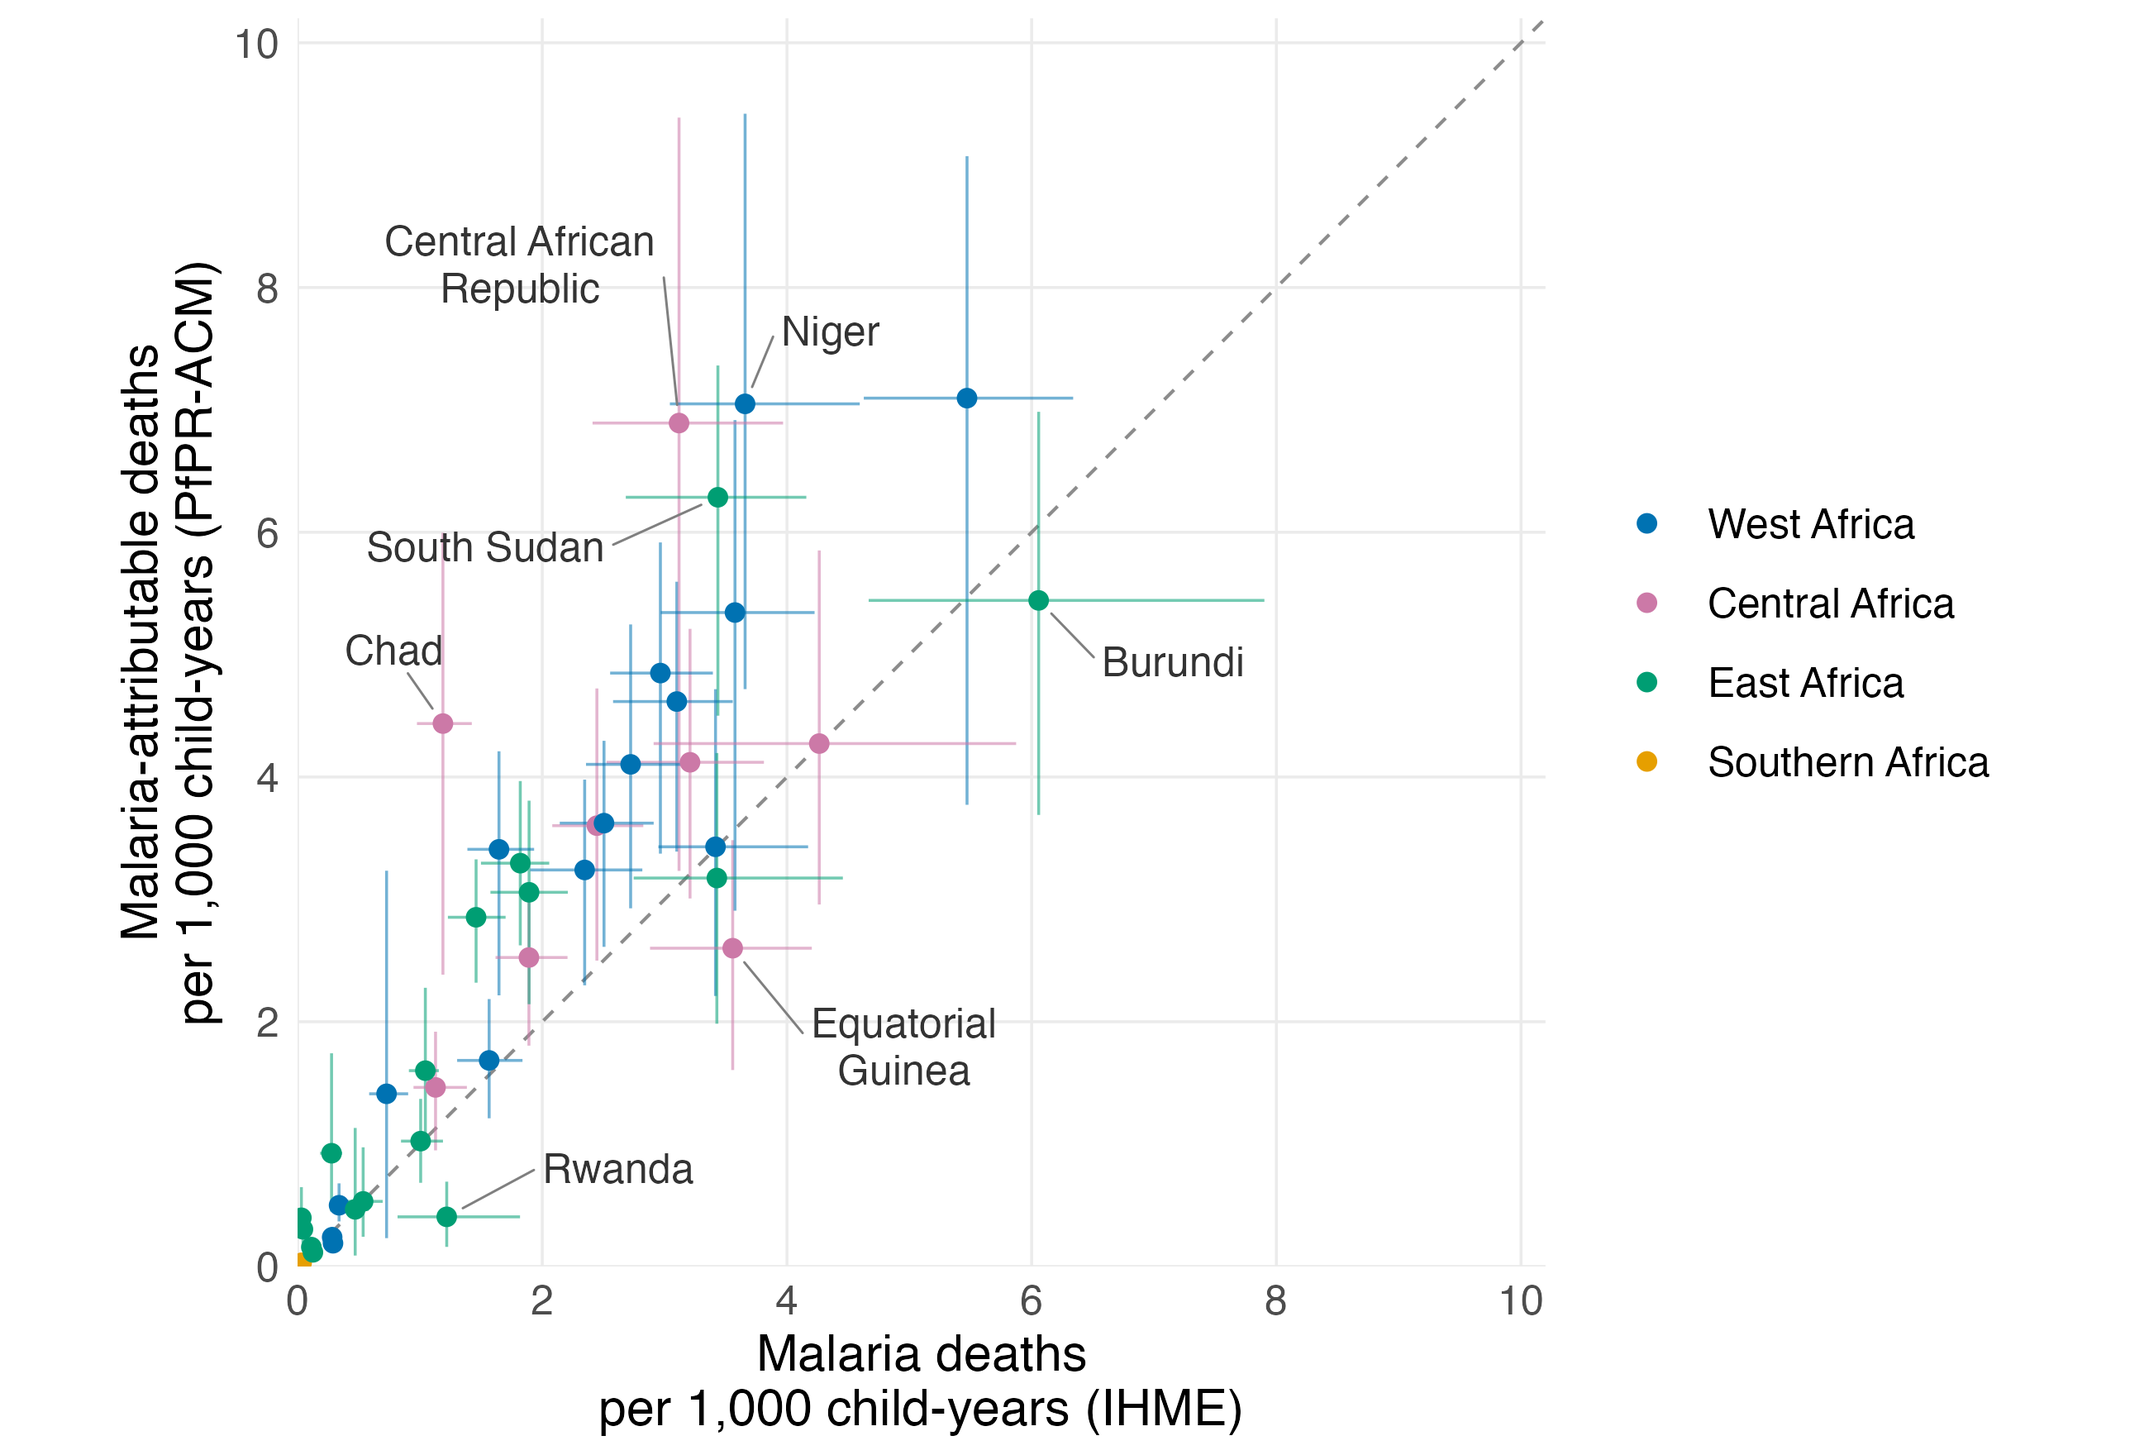
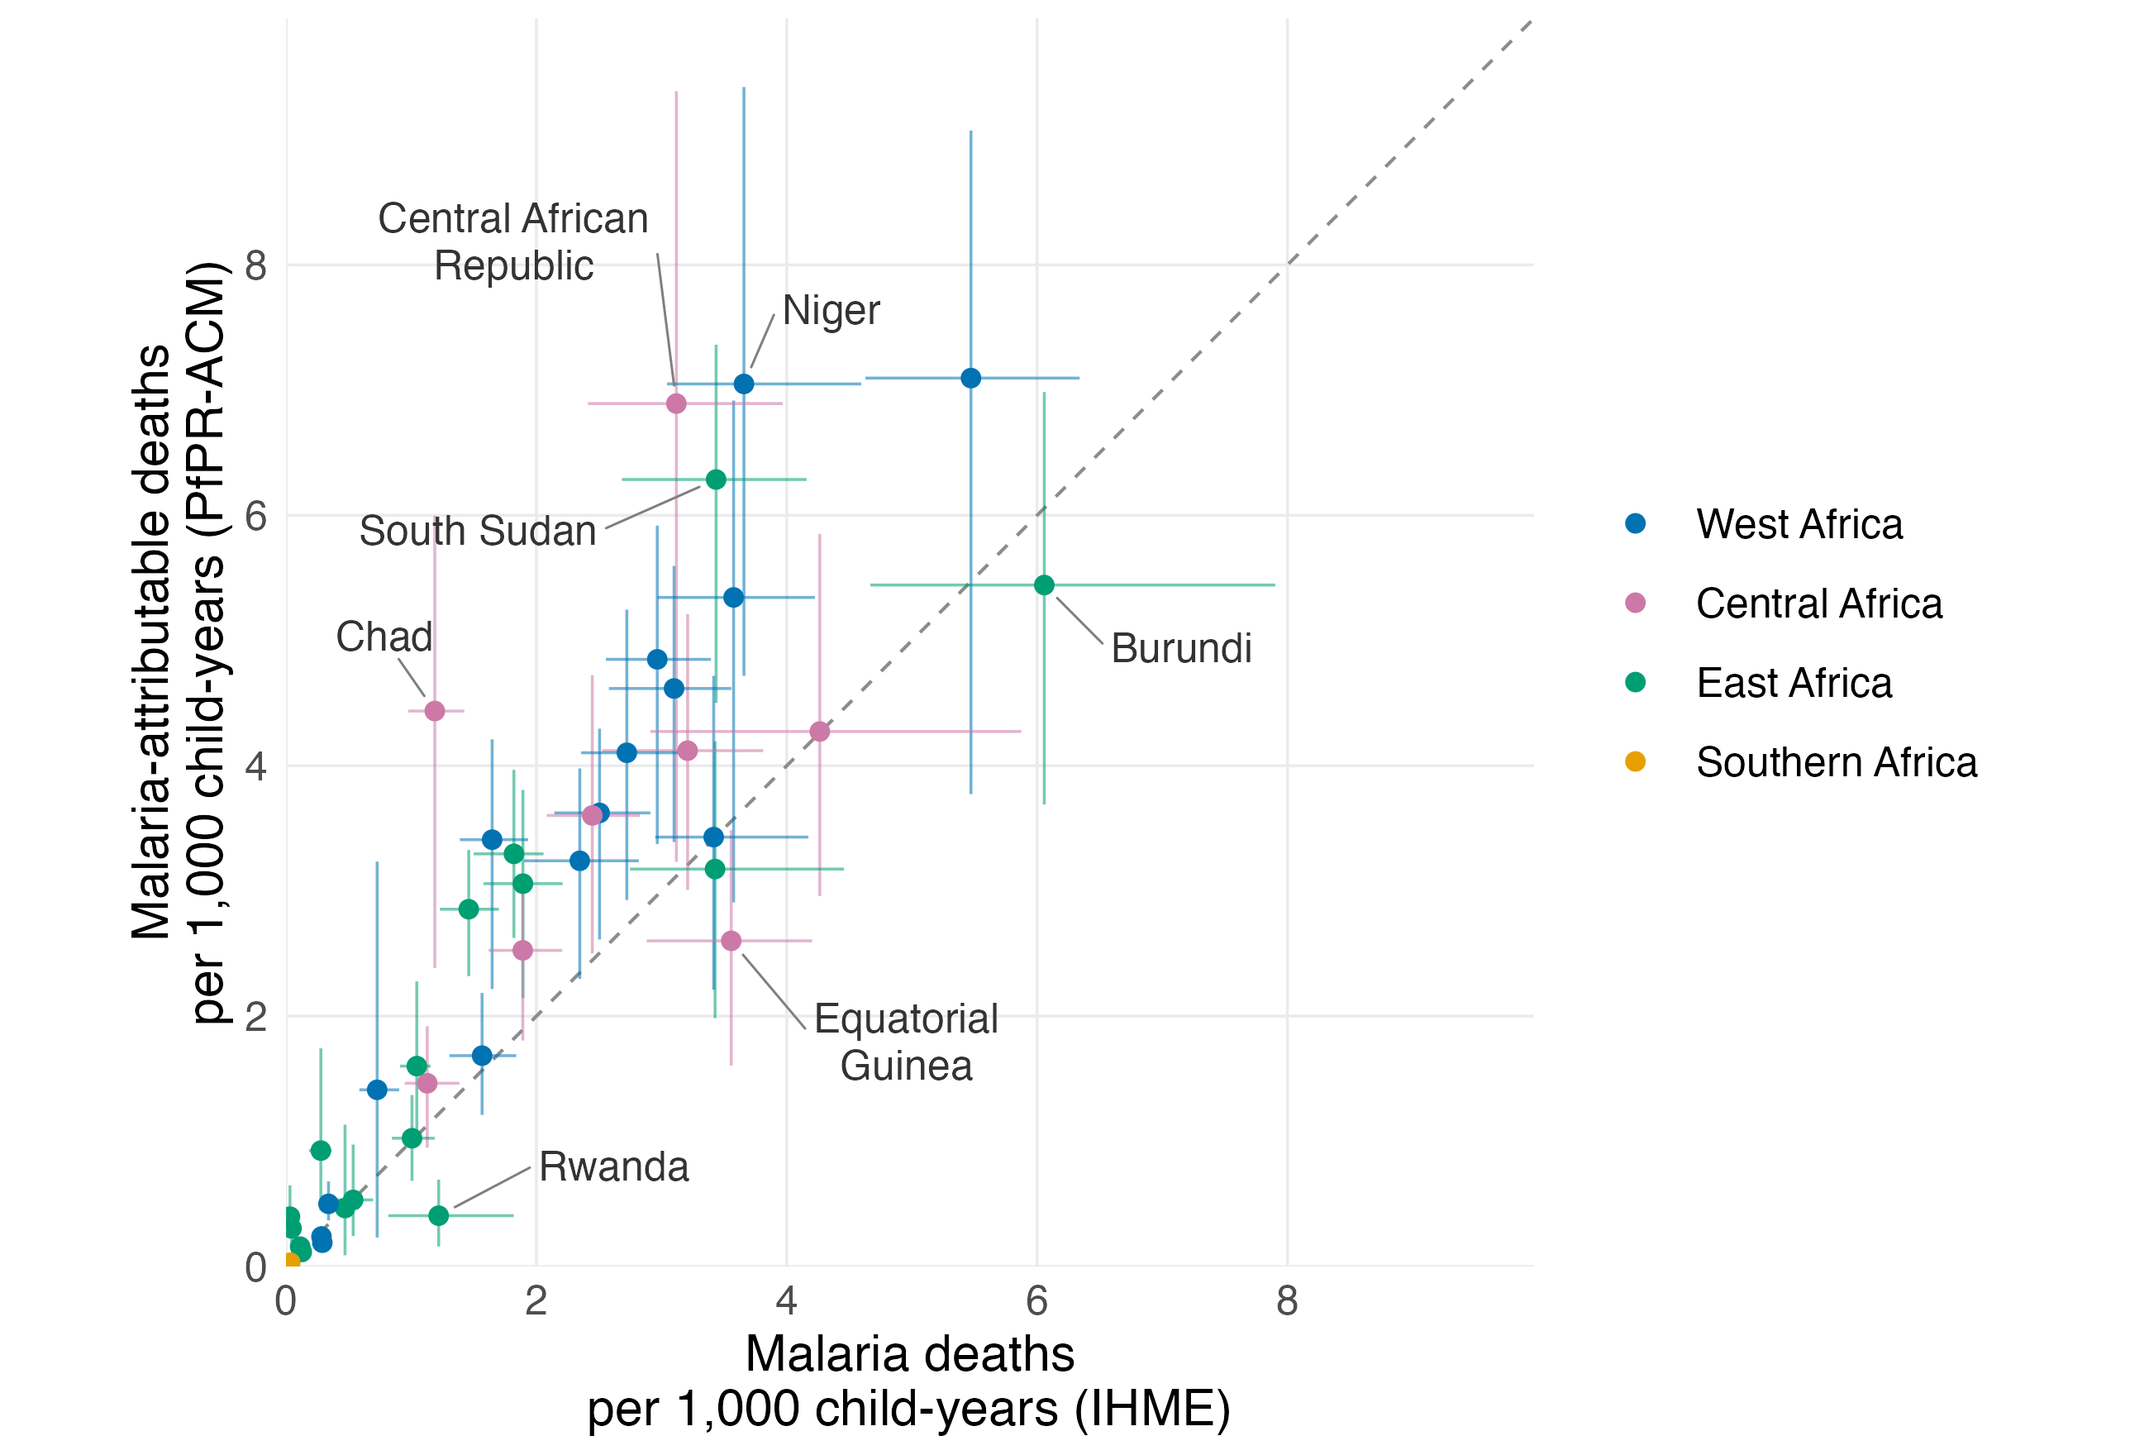
Figure 5: single under-five panel against UN IGME malaria deaths
Replaces the three age-group panels, which compared each age group with UN
IGME's under-five total (not like for like): UN IGME (CA-CODE) publishes
malaria deaths for 1-59 months as a whole, so an age-specific comparison is
not possible with it (author decision, 18 November 2026). The IHME
supplementary figure uses the same axes. The age-group intervals of the
uncertainty draws stay as a number source for the text.

diff --git a/R_cbh/reporting/export_paper.py b/R_cbh/reporting/export_paper.py
@@ -93,7 +93,7 @@ assets.extend([
     (root / "mortality_rates/CAPTION_unigme.md", Path("figures/fig4_malaria_mortality_rates_unigme_caption.md")),
     (root / "hazard_ratio_by_age/CAPTION.md", Path("figures/fig2_hazard_ratio_by_age_caption.md")),
     (root / "model_vs_cause_specific/CAPTION.md", Path("figures/fig5_model_vs_cause_specific_2024_caption.md")),
-    # Figure 5 is UN IGME only, by age group; its IHME panel is a supplementary figure (author request, 18 November 2026).
+    # Figure 5 is UN IGME only; its IHME panel is a supplementary figure (author request, 18 November 2026).
     (root / "model_vs_cause_specific/sfig_model_vs_cause_specific_ihme_2024.png", Path("Supplementary Figures/sfig_model_vs_cause_specific_ihme_2024.png")),
     (root / "model_vs_cause_specific/CAPTION_ihme.md", Path("Supplementary Figures/sfig_model_vs_cause_specific_ihme_2024_caption.md")),
     (root / "mortality_rates/sfig_malaria_mortality_rates_ihme.png", Path("Supplementary Figures/sfig_malaria_mortality_rates_ihme.png")),
@@ -110,7 +110,7 @@ assets.extend([
     (root / "uncertainty/annual_intervals_2000_2024.csv", Path("tables/uncertainty_annual_intervals_2000_2024.csv")),
     (root / "uncertainty/country_year_intervals_2000_2024.csv", Path("tables/uncertainty_country_year_intervals_2000_2024.csv")),
     (root / "uncertainty/contrasts.csv", Path("tables/uncertainty_contrasts.csv")),
-    # Attributable deaths by UN IGME age group, with intervals (number source of Figure 5; 18 November 2026).
+    # Attributable deaths by UN IGME age group, with intervals (18 November 2026).
     (root / "uncertainty/annual_age_group_intervals_2000_2024.csv", Path("tables/uncertainty_annual_age_group_intervals_2000_2024.csv")),
     (root / "uncertainty/SPEC.md", Path("tables/uncertainty_specification.md")),
 ])

diff --git a/paper/figures/primary_figure_captions.md b/paper/figures/primary_figure_captions.md
@@ -28,10 +28,10 @@ File: `fig4_malaria_mortality_rates_unigme.png` (source `mortality_rates/fig_mal
 
 **Figure. Malaria prevalence and under-five mortality in 42 sub-Saharan African countries, 2000–2024, with all-cause mortality from UN IGME.** (A) National PfPR[2–10]: the Malaria Atlas Project's national estimates (release 202608). (B) All-cause under-five deaths per 1,000 child-years, with crisis years replaced (below). (C) Malaria-attributable under-five deaths per 1,000 child-years: for each of the seven age bands of the PfPR-ACM model, the band's attributable fraction 1 − exp[f_g(0) − f_g(P)] at the national PfPR[2–10] times the band's all-cause deaths, summed over bands and divided by the same child-years. All-cause deaths are UN IGME estimates (UNICEF data warehouse, indicators CME_TMM0, CME_TMM1T11 and CME_TMY1T4) and child-years the UN WPP population under 5 (DM_POP_U5), the population UN IGME itself uses. UN IGME reports deaths at <1 month, 1–11 months and 1–4 years; each group is split across the model's age bands by the primary sample's observed deaths within the group, pooled over countries and years (1–5 months 52.3%, 6–11 months 47.7%, 12–23 months 37.9%, 24–35 months 32.2%, 36–47 months 19.0%, 48–59 months 10.9%). Crisis years, in which the UN IGME all-cause under-five death rate is more than 25% above its crisis-free trend (the log-linear interpolation between the nearest non-crisis years), take that trend in every age band, because the attributable fraction of crisis deaths need not resemble that of other years: Central African Republic 2009, 2014, 2017, 2019, 2021, 2022; Malawi 2001; Somalia 2011, 2022; South Sudan 2014, 2015, 2016, 2017, 2018 (689,289 deaths removed in all). Thin lines are countries, coloured by UN M49 sub-region (Middle Africa as Central Africa); the black line is the population-weighted average over the 42 countries (PfPR[2–10] weighted by the UN WPP population under 5; mortality rates weighted by child-years, that is total deaths divided by total child-years). The average malaria-attributable rate fell from 10.4 (95% uncertainty interval 9.3–11.2) to 3.5 (2.9–4.1) deaths per 1,000 child-years between 2000 and 2024 (29.0% and 22.5% of all-cause under-five deaths), a change of -66% (-70% to -63%). The grey band in C is the 95% uncertainty interval of the average, from 500 joint draws of MAP's national PfPR[2–10], the all-cause deaths and the PfPR–death curves (Supplementary Methods); the change is computed within each draw. Zero prevalence lies below the observed exposure support, so the counterfactual requires extrapolation.
 
-## Figure 5 — PfPR-ACM by age group against UN IGME malaria mortality by country, 2024
+## Figure 5 — PfPR-ACM against UN IGME malaria mortality by country, 2024
 
 File: `fig5_model_vs_cause_specific_2024.png` (source `model_vs_cause_specific/fig5_model_vs_cause_specific_2024.png`; values in `model_vs_cause_specific/figure_data.csv`).
 
-**Figure. Malaria-attributable under-five mortality in 2024 by age group: PfPR-ACM model against UN IGME malaria deaths.** Each point is a country. The y-axis is the PfPR-ACM estimate of malaria-attributable deaths at (A) under 1 month, (B) 1–11 months and (C) 1–4 years, the age groups in which UN IGME reports all-cause deaths. The x-axis is the same in every panel: UN IGME (CA-CODE) malaria deaths under 5, which CA-CODE assigns to ages 1–59 months as a whole (none under 1 month). All rates are deaths per 1,000 child-years under 5 (UN WPP population under 5), so the three PfPR-ACM rates of a country sum to its under-five rate. The PfPR-ACM estimate counts all deaths averted if prevalence fell to zero (direct and indirect); UN IGME counts deaths assigned to malaria as the underlying cause. The dashed line is equality, where the PfPR-ACM estimate for the age group alone would equal UN IGME's under-five malaria deaths; the y-axis differs between panels. Countries are coloured by UN M49 sub-region (Middle Africa as Central Africa). Across the 42 countries the PfPR-ACM model attributes 39,000 deaths (95% uncertainty interval -1,000 to 77,000) under 1 month, 159,000 (106,000 to 210,000) at 1–11 months and 429,000 (354,000 to 501,000) at 1–4 years, against 440,000 UN IGME malaria deaths. Spearman correlation with UN IGME malaria deaths: 0.85 (A), 0.88 (B), 0.92 (C); the PfPR-ACM estimate for the age group alone is higher than UN IGME's under-five malaria deaths in 2 (A), 4 (B), 20 (C) of 42 countries. Vertical lines are 95% uncertainty intervals of the PfPR-ACM estimates, from 500 joint draws of MAP's national PfPR[2–10], the all-cause deaths and the PfPR–death curves (Supplementary Methods); horizontal lines are the 90% bounds of the UN IGME (CA-CODE) malaria deaths. Intervals that go below zero are drawn to zero (38 (A), 0 (B), 0 (C) countries). Intervals beyond the y-axis are truncated with an arrow: South Sudan in A (upper bound 2.3); South Sudan in B (upper bound 5.9); South Sudan in C (upper bound 9.2). CA-CODE takes malaria from WHO estimates in 13 low-burden countries.
+**Figure. Malaria-attributable under-five mortality in 2024: PfPR-ACM model against UN IGME malaria deaths.** Each point is a country; rates are deaths per 1,000 child-years under 5. PfPR-ACM estimates using UN IGME all-cause mortality (y) against UN IGME (CA-CODE) malaria deaths (x), both over the UN WPP population under 5. The PfPR-ACM estimate counts all deaths averted if prevalence fell to zero (direct and indirect); UN IGME counts deaths assigned to malaria as the underlying cause. The dashed line is equality; countries are coloured by UN M49 sub-region (Middle Africa as Central Africa). Countries where the PfPR-ACM estimate is more than 2.5 per 1,000 above the UN IGME estimate or more than 0.6 below it are named. Spearman correlation: 0.91; the PfPR-ACM estimate is higher in 31 of 42 countries. Vertical lines are 95% uncertainty intervals of the PfPR-ACM estimates, from 500 joint draws of MAP's national PfPR[2–10], the all-cause deaths and the PfPR–death curves (Supplementary Methods); horizontal lines are the 90% bounds of the UN IGME (CA-CODE) malaria deaths. The lower bound exceeds the UN IGME estimate in 17 countries, and the upper bound is below it in 4. Intervals beyond the axes are truncated with an arrow: South Sudan (upper bound 15.4). CA-CODE assigns malaria deaths to ages 1–59 months as a whole and none under 1 month, and takes malaria from WHO estimates in 13 low-burden countries.
 
 [Source paths and hashes](manifest.csv). Copy the five main images into the manuscript's `figures/` folder and the supplementary images into `Supplementary Figures/`. No TeX edits are needed to prepare or copy the images; TeX references/captions are managed separately.

diff --git a/paper/figures/fig5_model_vs_cause_specific_2024_caption.md b/paper/figures/fig5_model_vs_cause_specific_2024_caption.md
@@ -1,3 +1,3 @@
-# Figure 5 caption — PfPR-ACM by age group against UN IGME malaria mortality, by country
+# Figure 5 caption — PfPR-ACM against UN IGME malaria mortality, by country
 
-**Figure. Malaria-attributable under-five mortality in 2024 by age group: PfPR-ACM model against UN IGME malaria deaths.** Each point is a country. The y-axis is the PfPR-ACM estimate of malaria-attributable deaths at (A) under 1 month, (B) 1–11 months and (C) 1–4 years, the age groups in which UN IGME reports all-cause deaths. The x-axis is the same in every panel: UN IGME (CA-CODE) malaria deaths under 5, which CA-CODE assigns to ages 1–59 months as a whole (none under 1 month). All rates are deaths per 1,000 child-years under 5 (UN WPP population under 5), so the three PfPR-ACM rates of a country sum to its under-five rate. The PfPR-ACM estimate counts all deaths averted if prevalence fell to zero (direct and indirect); UN IGME counts deaths assigned to malaria as the underlying cause. The dashed line is equality, where the PfPR-ACM estimate for the age group alone would equal UN IGME's under-five malaria deaths; the y-axis differs between panels. Countries are coloured by UN M49 sub-region (Middle Africa as Central Africa). Across the 42 countries the PfPR-ACM model attributes 39,000 deaths (95% uncertainty interval -1,000 to 77,000) under 1 month, 159,000 (106,000 to 210,000) at 1–11 months and 429,000 (354,000 to 501,000) at 1–4 years, against 440,000 UN IGME malaria deaths. Spearman correlation with UN IGME malaria deaths: 0.85 (A), 0.88 (B), 0.92 (C); the PfPR-ACM estimate for the age group alone is higher than UN IGME's under-five malaria deaths in 2 (A), 4 (B), 20 (C) of 42 countries. Vertical lines are 95% uncertainty intervals of the PfPR-ACM estimates, from 500 joint draws of MAP's national PfPR[2–10], the all-cause deaths and the PfPR–death curves (Supplementary Methods); horizontal lines are the 90% bounds of the UN IGME (CA-CODE) malaria deaths. Intervals that go below zero are drawn to zero (38 (A), 0 (B), 0 (C) countries). Intervals beyond the y-axis are truncated with an arrow: South Sudan in A (upper bound 2.3); South Sudan in B (upper bound 5.9); South Sudan in C (upper bound 9.2). CA-CODE takes malaria from WHO estimates in 13 low-burden countries.
+**Figure. Malaria-attributable under-five mortality in 2024: PfPR-ACM model against UN IGME malaria deaths.** Each point is a country; rates are deaths per 1,000 child-years under 5. PfPR-ACM estimates using UN IGME all-cause mortality (y) against UN IGME (CA-CODE) malaria deaths (x), both over the UN WPP population under 5. The PfPR-ACM estimate counts all deaths averted if prevalence fell to zero (direct and indirect); UN IGME counts deaths assigned to malaria as the underlying cause. The dashed line is equality; countries are coloured by UN M49 sub-region (Middle Africa as Central Africa). Countries where the PfPR-ACM estimate is more than 2.5 per 1,000 above the UN IGME estimate or more than 0.6 below it are named. Spearman correlation: 0.91; the PfPR-ACM estimate is higher in 31 of 42 countries. Vertical lines are 95% uncertainty intervals of the PfPR-ACM estimates, from 500 joint draws of MAP's national PfPR[2–10], the all-cause deaths and the PfPR–death curves (Supplementary Methods); horizontal lines are the 90% bounds of the UN IGME (CA-CODE) malaria deaths. The lower bound exceeds the UN IGME estimate in 17 countries, and the upper bound is below it in 4. Intervals beyond the axes are truncated with an arrow: South Sudan (upper bound 15.4). CA-CODE assigns malaria deaths to ages 1–59 months as a whole and none under 1 month, and takes malaria from WHO estimates in 13 low-burden countries.

diff --git a/paper/Supplementary Figures/sfig_model_vs_cause_specific_ihme_2024_caption.md b/paper/Supplementary Figures/sfig_model_vs_cause_specific_ihme_2024_caption.md
@@ -1,3 +1,3 @@
 # Supplementary figure caption — PfPR-ACM against IHME malaria mortality, by country
 
-**Figure. Malaria-attributable under-five mortality in 2024: PfPR-ACM model with IHME all-cause mortality against IHME malaria deaths.** Each point is a country; rates are deaths per 1,000 child-years under 5, both over IHME person-years. The PfPR-ACM estimate (y) counts all deaths averted if prevalence fell to zero (direct and indirect); IHME (x) counts deaths assigned to malaria as the underlying cause. The dashed line is equality; countries are coloured by UN M49 sub-region (Middle Africa as Central Africa). Countries where the PfPR-ACM estimate is more than 2.5 per 1,000 above the IHME estimate or more than 0.6 below it are named. Spearman correlation: 0.91; the PfPR-ACM estimate is higher in 30 of 42 countries. Vertical lines are 95% uncertainty intervals of the PfPR-ACM estimates, from 500 joint draws of MAP's national PfPR[2–10], the all-cause deaths and the PfPR–death curves (Supplementary Methods); horizontal lines are IHME's 95% uncertainty intervals. The lower bound exceeds the IHME estimate in 17 countries, and the upper bound is below it in 5. South Sudan's IHME all-cause mortality is its crisis-free value.
+**Figure. Malaria-attributable under-five mortality in 2024: PfPR-ACM model with IHME all-cause mortality against IHME malaria deaths.** Each point is a country; rates are deaths per 1,000 child-years under 5. PfPR-ACM estimates using IHME all-cause mortality (y) against IHME malaria deaths (x), both over IHME person-years. The PfPR-ACM estimate counts all deaths averted if prevalence fell to zero (direct and indirect); IHME counts deaths assigned to malaria as the underlying cause. The dashed line is equality; countries are coloured by UN M49 sub-region (Middle Africa as Central Africa). Countries where the PfPR-ACM estimate is more than 2.5 per 1,000 above the IHME estimate or more than 0.6 below it are named. Spearman correlation: 0.91; the PfPR-ACM estimate is higher in 30 of 42 countries. Vertical lines are 95% uncertainty intervals of the PfPR-ACM estimates, from 500 joint draws of MAP's national PfPR[2–10], the all-cause deaths and the PfPR–death curves (Supplementary Methods); horizontal lines are IHME's 95% uncertainty intervals. The lower bound exceeds the IHME estimate in 17 countries, and the upper bound is below it in 5. The axes are those of the main-text figure (UN IGME). South Sudan's IHME all-cause mortality is its crisis-free value.
